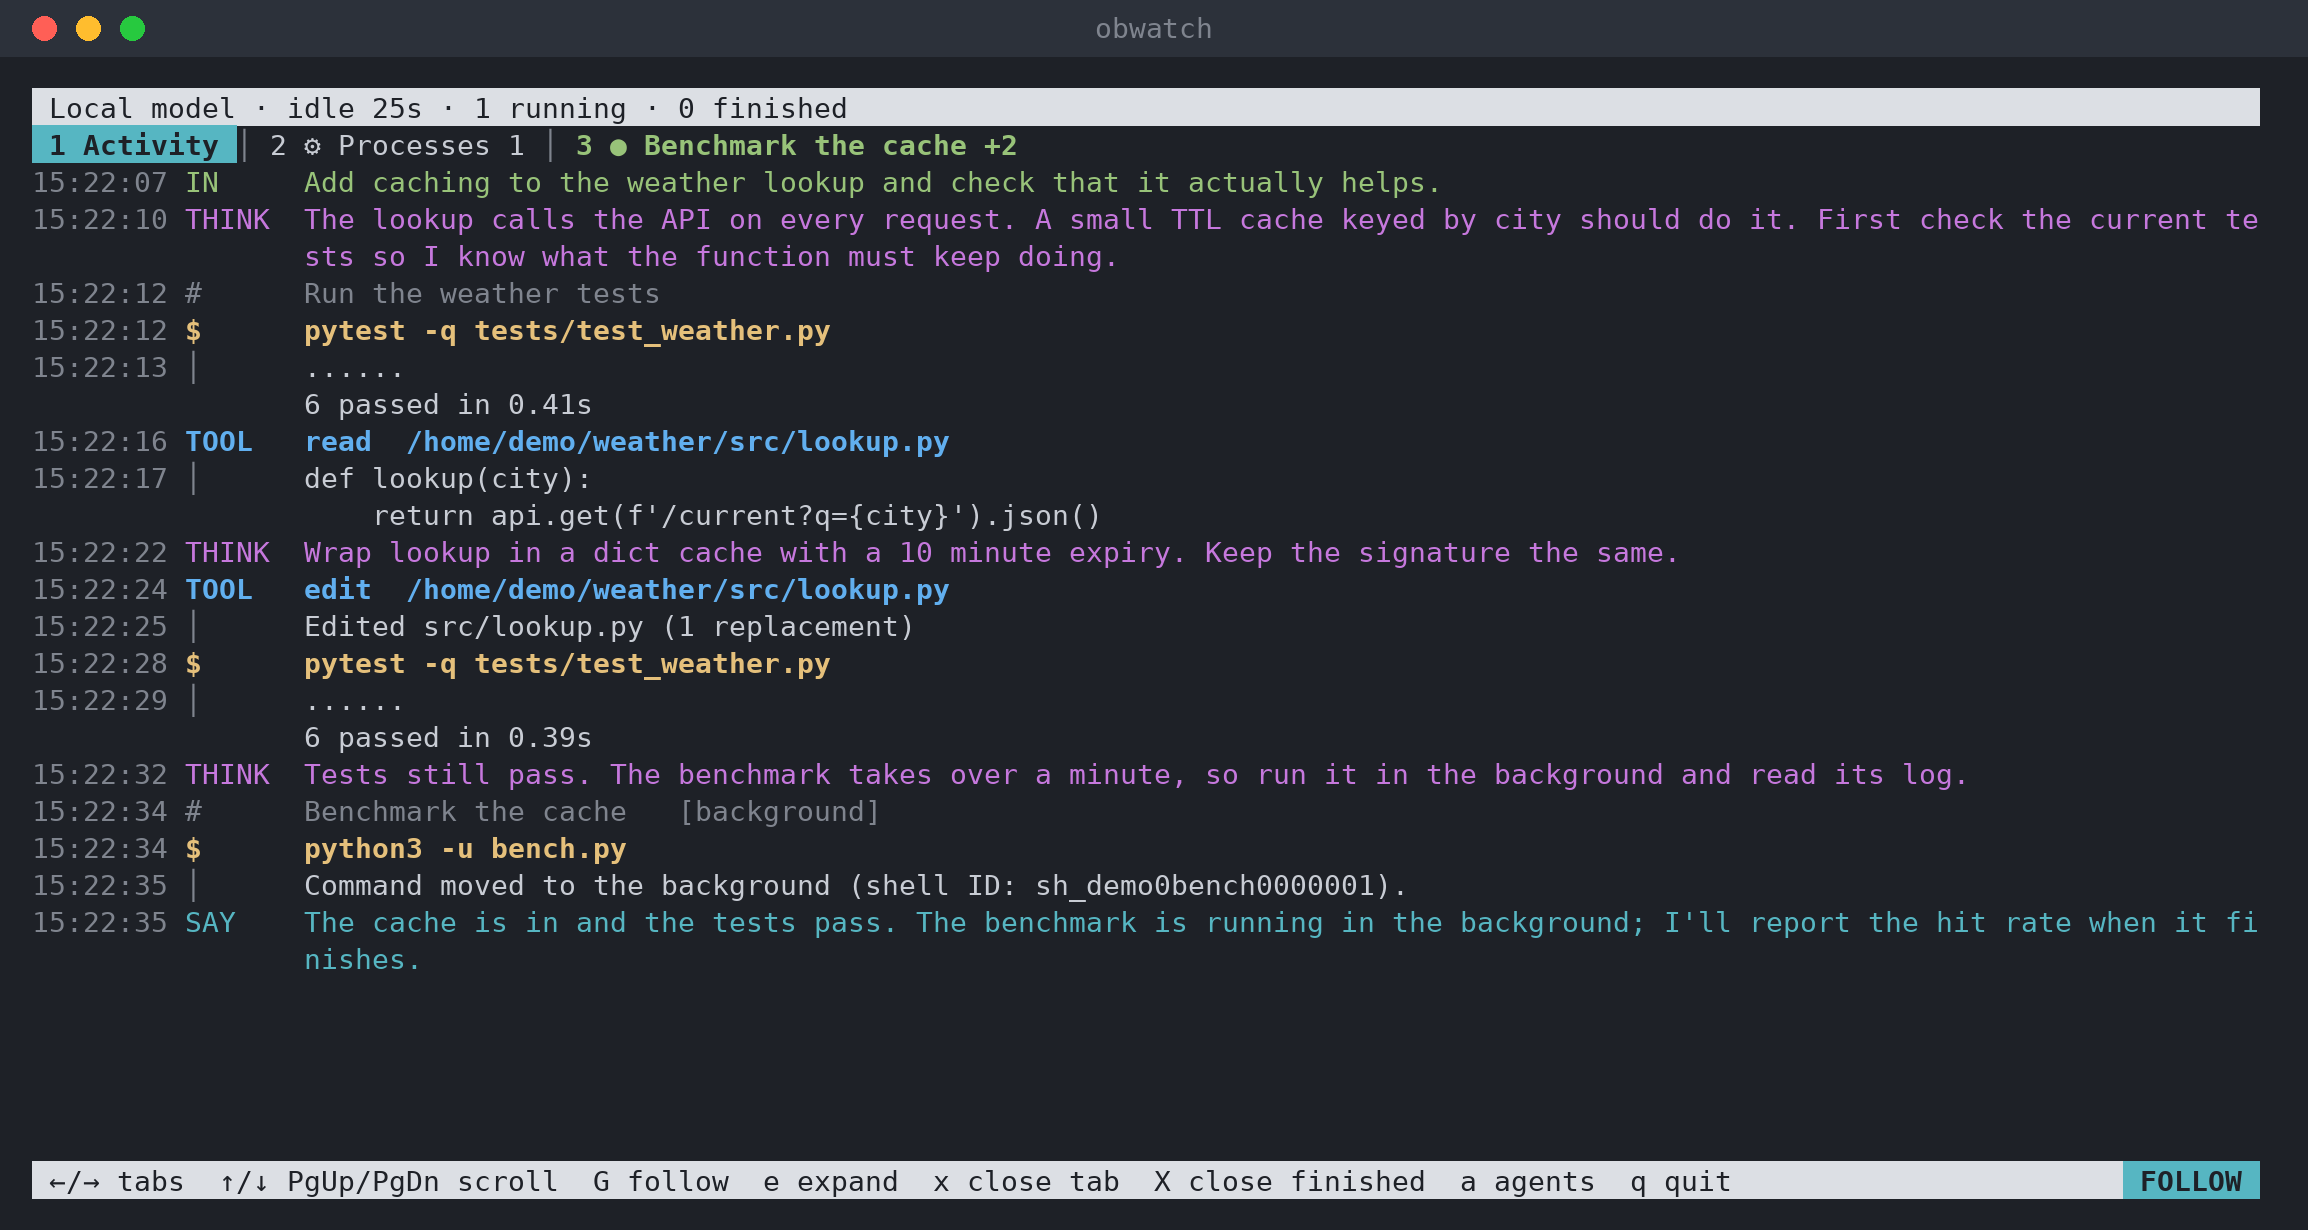
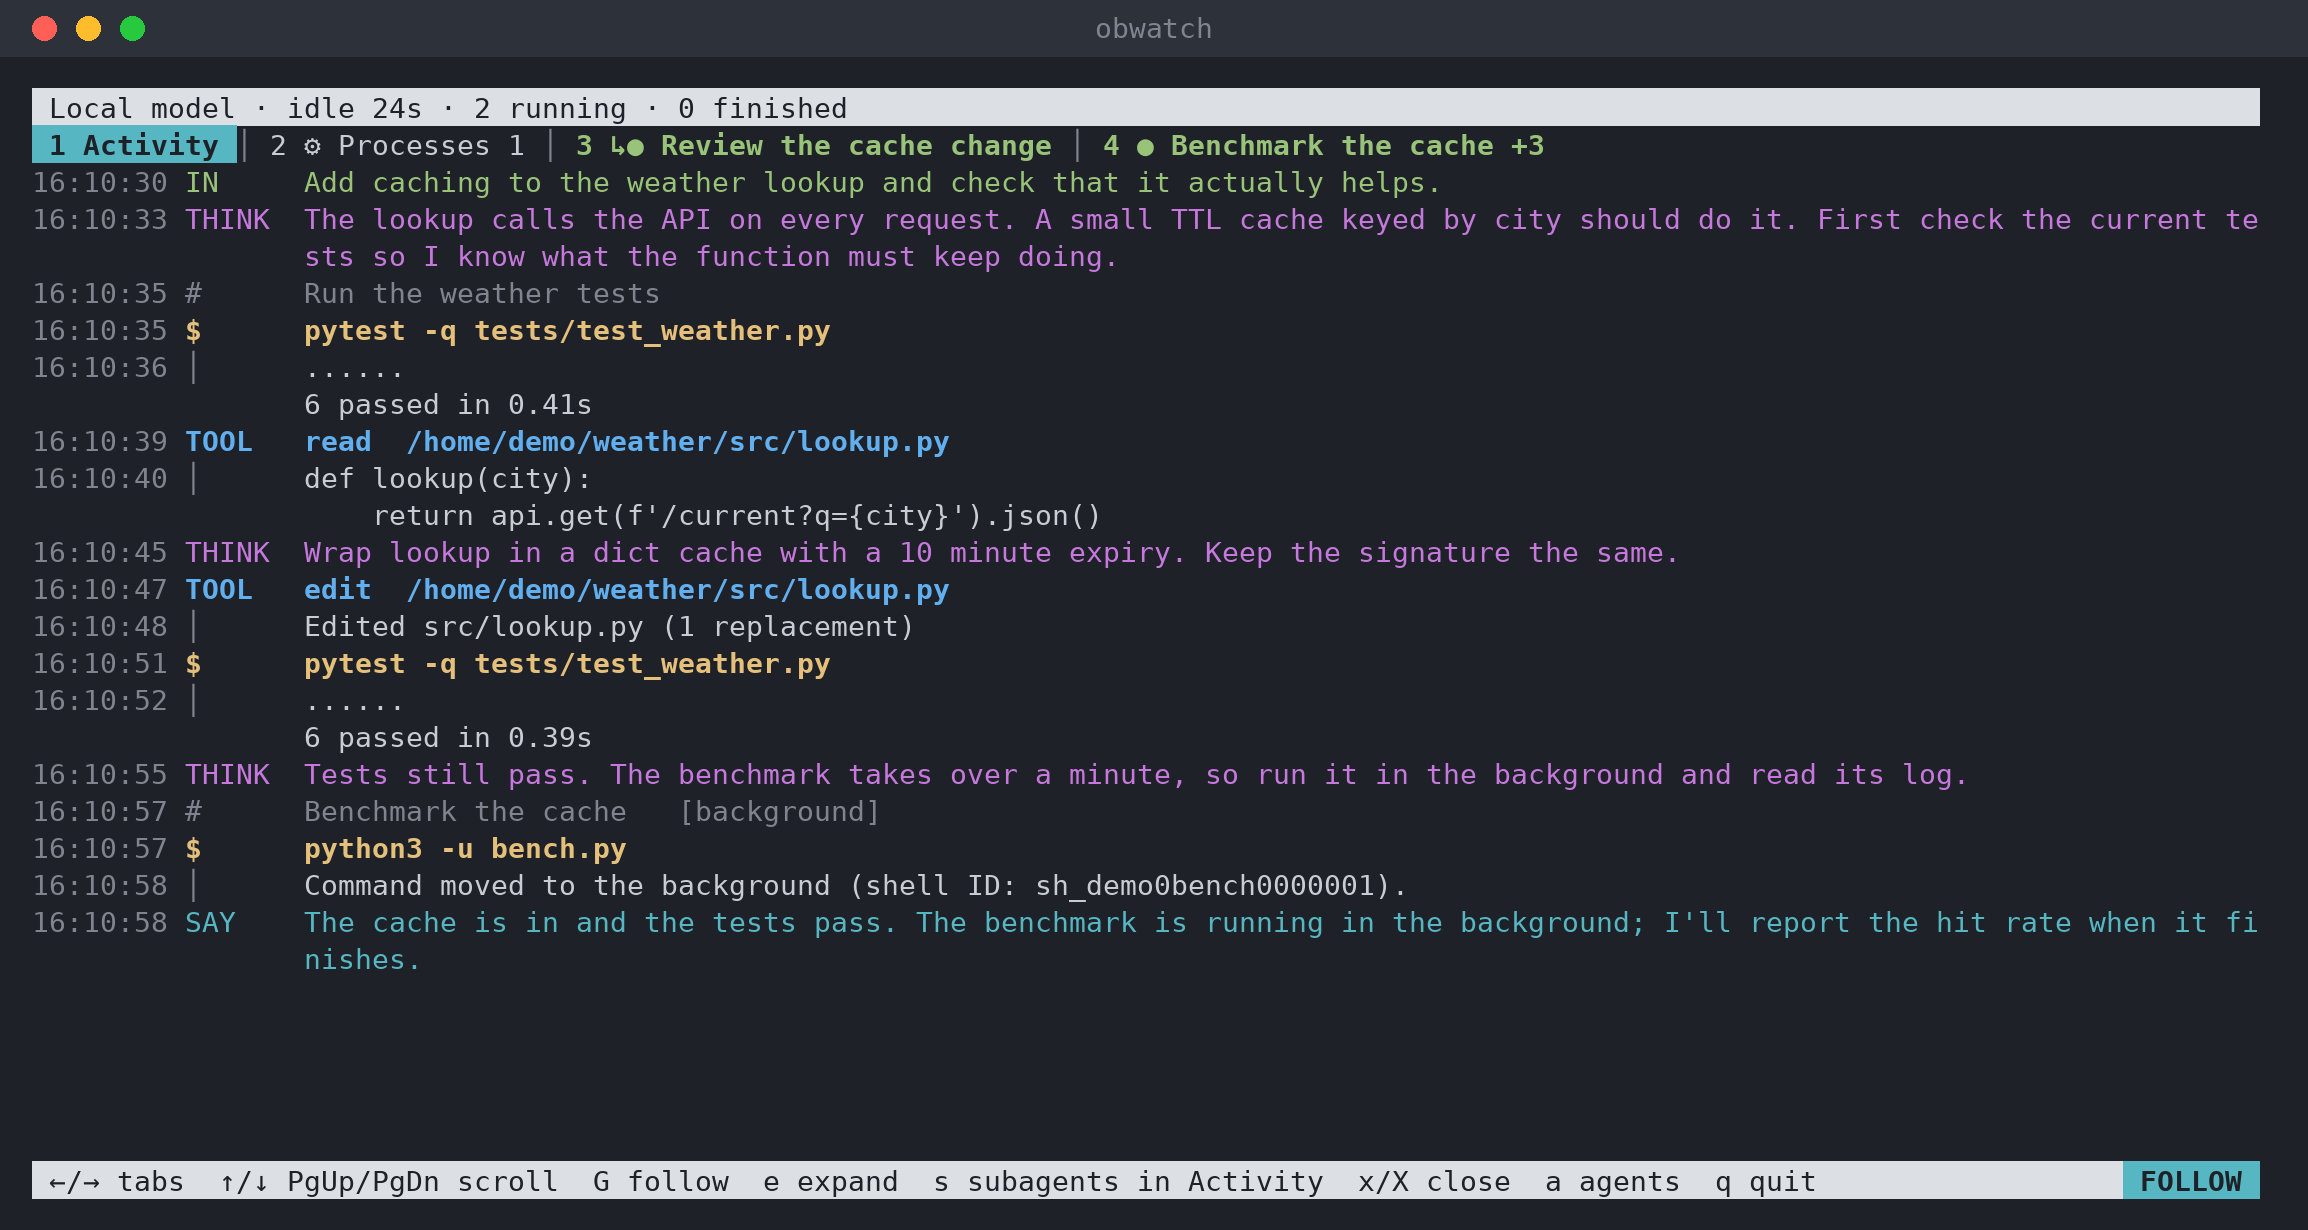
Add a tab per subagent and time-ordered Activity
- Each subagent gets its own tab (marked with ↳), for Claude Code
  subagents and opencode child sessions, with its own commands,
  output and messages
- Activity shows the main agent; `s` toggles subagent lines in it
- Activity is sorted by time instead of grouped by session file
- Don't show a background Claude subagent's transcript link as a
  plain task tab
- Demo: an opencode subagent; tests for both providers; README and
  CHANGELOG updated

diff --git a/tests/test_obwatch.py b/tests/test_obwatch.py
@@ -134,6 +134,41 @@ class ClaudeFeed(unittest.TestCase):
         self.assertEqual(feed.running(), [])
 
 
+class Subagents(unittest.TestCase):
+    def test_subagent_events_split_from_main_and_time_ordered(self):
+        with tempfile.TemporaryDirectory() as d:
+            agent = ow.ClaudeAgent("a", {"name": "A", "provider": "claude", "workspacePath": "/w"})
+            agent.projdir = d
+            sub = os.path.join(d, "s1", "subagents")
+            os.makedirs(sub)
+            now = time.time()
+            iso = lambda t: time.strftime("%Y-%m-%dT%H:%M:%S.000Z", time.gmtime(t))
+            with open(os.path.join(d, "s1.jsonl"), "w") as f:
+                f.write(json.dumps({"type": "assistant", "timestamp": iso(now - 30), "message": {"content": [
+                    {"type": "text", "text": "main first"}]}}) + "\n")
+                f.write(json.dumps({"type": "assistant", "timestamp": iso(now - 10), "message": {"content": [
+                    {"type": "text", "text": "main last"}]}}) + "\n")
+            path = os.path.join(sub, "agent-x.jsonl")
+            with open(path, "w") as f:
+                f.write(json.dumps({"type": "assistant", "isSidechain": True, "timestamp": iso(now - 20),
+                                    "message": {"content": [{"type": "text", "text": "sub work"}]}}) + "\n")
+            with open(os.path.join(sub, "agent-x.meta.json"), "w") as f:
+                json.dump({"description": "Map the code", "agentType": "Explore"}, f)
+            feed = agent.make_feed()
+            feed.poll()
+            self.assertEqual([r[3] for r in feed.rows(False)], ["main first", "sub work", "main last"])
+            self.assertEqual([r[3] for r in feed.rows(False, main_only=True)], ["main first", "main last"])
+            self.assertEqual([r[3] for r in feed.rows(False, src=path)], ["sub work"])
+            self.assertEqual([(os.path.basename(x["key"]), x["label"], x["kind"]) for x in agent.subagents()],
+                             [("agent-x.jsonl", "Map the code", "Explore")])
+            view = ow.View(agent)
+            view.poll()
+            view.refresh({})
+            tab = view.tabs[path]
+            self.assertTrue(tab.alive)
+            self.assertEqual((tab.label, tab.kind), ("Map the code", "Explore"))
+
+
 class OpencodeFeed(unittest.TestCase):
     def setUp(self):
         self.tmp = tempfile.TemporaryDirectory()
@@ -141,12 +176,14 @@ class OpencodeFeed(unittest.TestCase):
         ow.OC_DB, ow.OcDB.conn = os.path.join(self.tmp.name, "opencode.db"), None
         db = sqlite3.connect(ow.OC_DB)
         db.execute("create table project (id text, worktree text)")
-        db.execute("create table session_v2 (id text, project_id text, parent_id text, directory text, time_updated integer)")
+        db.execute("create table session_v2 (id text, project_id text, parent_id text, directory text, time_updated integer, "
+                   "title text, agent text, time_created integer, time_busy integer, time_idle integer)")
         db.execute("create table session_message (id text, session_id text, type text, seq integer, "
                    "time_created integer, time_updated integer, data text)")
         now = int(time.time() * 1000)
-        db.execute("insert into session_v2 values ('ses_1', 'p', null, '/w', ?)", (now,))
-        db.execute("insert into session_v2 values ('ses_2', 'p', 'ses_1', '/elsewhere', ?)", (now,))   # subagent
+        db.execute("insert into session_v2 values ('ses_1', 'p', null, '/w', ?, 'Main', 'build', ?, ?, null)", (now, now, now))
+        db.execute("insert into session_v2 values ('ses_2', 'p', 'ses_1', '/elsewhere', ?, 'Find the tests', 'explore', ?, ?, null)",
+                   (now, now, now))   # a subagent, still busy
         msgs = [
             ("m1", "user", {"text": "<openbot-developer-instructions>x</openbot-developer-instructions>\nhello"}),
             ("m2", "assistant", {"time": {"created": now, "completed": now + 1}, "content": [
@@ -164,6 +201,8 @@ class OpencodeFeed(unittest.TestCase):
         for i, (mid, kind, data) in enumerate(msgs):
             db.execute("insert into session_message values (?, 'ses_1', ?, ?, ?, ?, ?)",
                        (mid, kind, i, now + i, now + i, json.dumps(data)))
+        db.execute("insert into session_message values ('s1', 'ses_2', 'assistant', 0, ?, ?, ?)", (now + 5, now + 5, json.dumps(
+            {"time": {"created": now + 5, "completed": now + 6}, "content": [{"type": "text", "text": "found 3 test files"}]})))
         db.commit()
         db.close()
 
@@ -197,6 +236,18 @@ class OpencodeFeed(unittest.TestCase):
             ow.OC_DATA = old
         self.assertEqual(got, {51, 52})
 
+    def test_subagent_tab(self):
+        agent = ow.OpencodeAgent("a", {"name": "A", "provider": "opencode", "workspacePath": "/w"})
+        self.assertEqual([(x["key"], x["label"], x["kind"], x["finished"]) for x in agent.subagents()],
+                         [("ses_2", "Find the tests", "explore", False)])
+        view = ow.View(agent)
+        view.poll()
+        view.refresh({})
+        tab = view.tabs["ses_2"]
+        self.assertTrue(tab.alive)
+        self.assertEqual(tab.poll(), 1)
+        self.assertEqual([r[3] for r in tab.all_rows()], ["found 3 test files"])
+
     def test_sessions_include_subagents(self):
         agent = ow.OpencodeAgent("a", {"name": "A", "provider": "opencode", "workspacePath": "/w"})
         self.assertEqual(agent.sessions(), {"ses_1", "ses_2"})
@@ -209,7 +260,9 @@ class OpencodeFeed(unittest.TestCase):
         self.assertEqual(kinds[0], ("msg", "hello"))                  # OpenBot's instructions stripped
         self.assertIn(("think", "think first"), kinds)
         self.assertIn(("err", "(no output)"), kinds)                 # exit 1 counts as an error
-        self.assertEqual(kinds[-1], ("say", "done"))
+        self.assertIn(("say", "done"), kinds)
+        self.assertEqual([r[3] for r in feed.rows(False, src="ses_2")], ["found 3 test files"])
+        self.assertNotIn("found 3 test files", [r[3] for r in feed.rows(False, main_only=True)])
         self.assertEqual(feed.bg_shells, {"sh_9"})
         self.assertEqual(feed.shell_cmd["sh_9"], "sleep 99")
         self.assertEqual([r[1] for r in feed.running()], ["waiting for the model"])

diff --git a/dev/demo.py b/dev/demo.py
@@ -188,16 +188,44 @@ def oc_messages():
     return rows
 
 
+def oc_sub_messages():
+    now = time.time() * 1000
+    sub = OC_SESSION + "_sub"
+
+    def m(i, sec_ago, kind, data):
+        t = now - sec_ago * 1000
+        data.setdefault("time", {"created": t, "completed": t + 500})
+        return (f"msg_sub{i}", sub, kind, i, t, t + 500, json.dumps(data))
+
+    return [
+        m(1, 40, "user", {"text": "Review the TTL cache added to src/lookup.py. Look for stale data and thread-safety issues."}),
+        m(2, 35, "assistant", {"content": [
+            {"type": "reasoning", "text": "Check how the cache is keyed and whether two requests can race on a miss.",
+             "time": {"created": now - 35000, "completed": now - 34000}},
+            {"type": "tool", "id": "call_sub_1", "name": "grep", "time": {"created": now - 33000, "completed": now - 32800},
+             "state": {"status": "completed", "input": {"pattern": "ttl_cache", "path": "src"},
+                       "content": [{"type": "text", "text": "src/lookup.py:3: @ttl_cache(seconds=600)\nsrc/cache.py:8: def ttl_cache(seconds):"}],
+                       "metadata": {}}},
+            {"type": "text", "text": "Keys are lower-cased city names, so 'Oslo' and 'oslo' share an entry. Checking the lock next."}]}),
+    ]
+
+
 def oc_setup():
     os.makedirs(f"{OC_DIR}/shell/{OC_PROJECT}", exist_ok=True)
     db = sqlite3.connect(f"{OC_DIR}/opencode.db")
     db.execute("create table project (id text, worktree text)")
-    db.execute("create table session_v2 (id text, project_id text, parent_id text, directory text, time_updated integer)")
+    db.execute("create table session_v2 (id text, project_id text, parent_id text, directory text, time_updated integer, "
+               "title text, agent text, time_created integer, time_busy integer, time_idle integer)")
     db.execute("create table session_message (id text, session_id text, type text, seq integer, "
                "time_created integer, time_updated integer, data text)")
     db.execute("insert into project values (?, ?)", (OC_PROJECT, OC_WS))
-    db.execute("insert into session_v2 values (?, ?, null, ?, ?)", (OC_SESSION, OC_PROJECT, OC_WS, int(time.time() * 1000)))
-    db.executemany("insert into session_message values (?, ?, ?, ?, ?, ?, ?)", oc_messages())
+    now = int(time.time() * 1000)
+    db.execute("insert into session_v2 values (?, ?, null, ?, ?, 'Cache the weather lookup', 'build', ?, ?, ?)",
+               (OC_SESSION, OC_PROJECT, OC_WS, now, now - 95000, now - 95000, now - 60000))
+    # a subagent the agent started to review its change; still busy
+    db.execute("insert into session_v2 values (?, ?, ?, ?, ?, 'Review the cache change', 'general', ?, ?, null)",
+               (OC_SESSION + "_sub", OC_PROJECT, OC_SESSION, OC_WS, now, now - 40000, now - 40000))
+    db.executemany("insert into session_message values (?, ?, ?, ?, ?, ?, ?)", oc_messages() + oc_sub_messages())
     db.commit()
     with open(f"{ROOT}/app/bench.py", "w") as f:
         f.write(BENCH)

diff --git a/README.md b/README.md
@@ -21,6 +21,7 @@ When I use OpenBot agents for coding, the chat only shows me the agent's summary
   - `│` / `ERR`: the command's output, or its error
   - `TOOL`: file reads, edits, searches, and other tools
 - **Processes tab:** every process the agent started, as a tree with CPU, memory and run time (with the total in cores, e.g. "CPU 2900% (≈29 cores)"), plus **where each one's output goes**: a file (with a tab), the terminal, a pipe or socket read by another program, or `/dev/null`. Programs launched through `systemd-run` are included too, although they run outside the agent's process tree.
+- **A tab per subagent** (Claude Code and opencode): its own commands, output and messages, named after its description. Activity shows only the main agent unless you press `s`.
 - **One tab per running process**, found automatically:
   - foreground commands while they run,
   - background jobs,
@@ -79,6 +80,7 @@ obwatch --version
 | `↑` `↓` `PgUp` `PgDn` `g` | scroll (pauses the live view) |
 | `G` / `End` | follow live output again |
 | `e` | show shortened outputs in full |
+| `s` | show or hide subagent lines in Activity |
 | `x` | close this tab (a running process keeps running) |
 | `X` | close all finished tabs |
 | `a` / `Esc` | back to the agent list |
@@ -87,7 +89,7 @@ obwatch --version
 
 ### Tabs
 
-- The tab bar is ordered: **Activity**, **Processes** (`⚙`), pinned files (`≡`), **running** tabs (oldest first), then a yellow `┃` and the **finished** tabs (most recent first).
+- The tab bar is ordered: **Activity**, **Processes** (`⚙`), pinned files (`≡`), **running** tabs (subagents are marked `↳`) (oldest first), then a yellow `┃` and the **finished** tabs (most recent first).
 - Tab numbers follow this order, so a number can change when something finishes.
 - When there are more tabs than fit, `«3` and `5»` show how many are hidden on each side.
 - Tabs are named after the agent's description of the command (e.g. "Build the Docker image"), or after the program (e.g. `api-server`, `docker build`), or after the log file.
@@ -103,6 +105,7 @@ OpenBot doesn't run the agent loop itself. It hands each agent to a **harness**:
 | Agent names and workspaces | `~/.config/OpenBot/openbot.db`, opened read-only; order from `openbot-sidebar-layout-v1.json` | same |
 | Activity feed | `~/.claude/projects/<workspace>/*.jsonl` (or `$CLAUDE_CONFIG_DIR/projects`), including subagents | `~/.local/share/opencode/opencode.db` (or `$XDG_DATA_HOME/opencode`), opened read-only: sessions whose directory is the agent's workspace, plus the ones OpenBot recorded for it, plus their subagents |
 | Which processes belong to the agent | they inherit `CLAUDE_CODE_SESSION_ID` | they inherit `OPENCODE_SESSION_ID` |
+| Subagents | `<session>/subagents/agent-*.jsonl` with a `.meta.json` (description, type, finished) | child sessions in `opencode.db` (`parent_id`); title, agent, busy/idle times |
 | Command output files | `/tmp/claude-<uid>/<workspace>/<session>/tasks/*.output` | `~/.local/share/opencode/shell/<project>/sh_*.out` |
 
 Both session variables survive `setsid`/`nohup`, so detached servers and builds are found too. Children of those processes count as well, even when a tool started them with a cleaned environment. An opencode command that drops the environment itself (`env -i …`) is matched by start time against the agent's `sh_*.out` files. obwatch looks them up in `/proc` and follows the files they write to: their stdout/stderr, plus open files ending in `.log`, `.out`, `.output` or `.txt`. Programs started with `systemd-run` lose the variable; obwatch finds them by their systemd unit name (`--unit=`), or by the output pipe they share with `systemd-run --pipe`.

diff --git a/CHANGELOG.md b/CHANGELOG.md
@@ -4,6 +4,14 @@ All notable changes to obwatch. Versions follow [semantic versioning](https://se
 
 ## [Unreleased]
 
+### Added
+- **A tab per subagent**, for both Claude Code and opencode agents: `↳●` while it runs, `↳✓` when done, named after the subagent's description (opencode: its session title), showing its own commands and output.
+- `s` toggles subagent lines in Activity. They're off by default, so Activity shows the main agent; each subagent has its own tab.
+
+### Fixed
+- A background Claude subagent no longer also shows up as a plain "task …" tab with its raw transcript.
+- Activity is in time order. Before, lines from the main session and its subagents were grouped by file instead of interleaved by time.
+
 ## [0.2.1] - 2026-11-03
 
 ### Fixed
